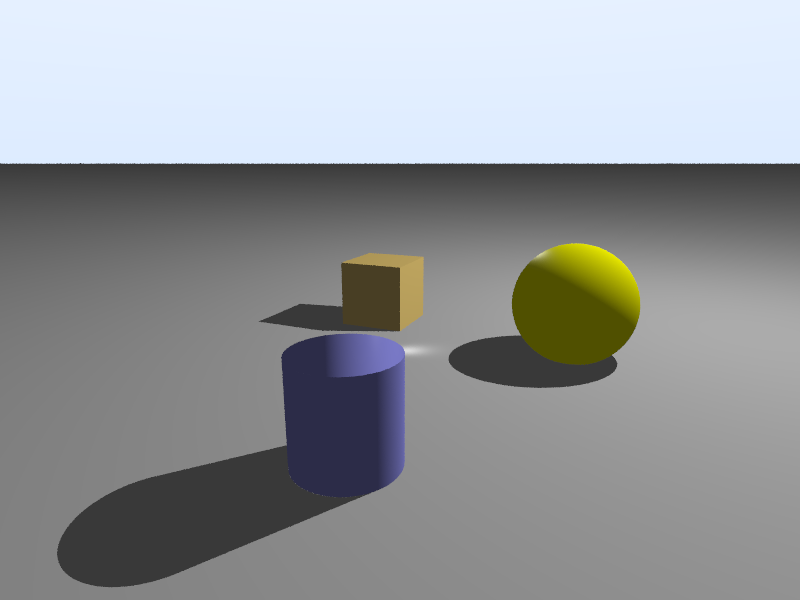
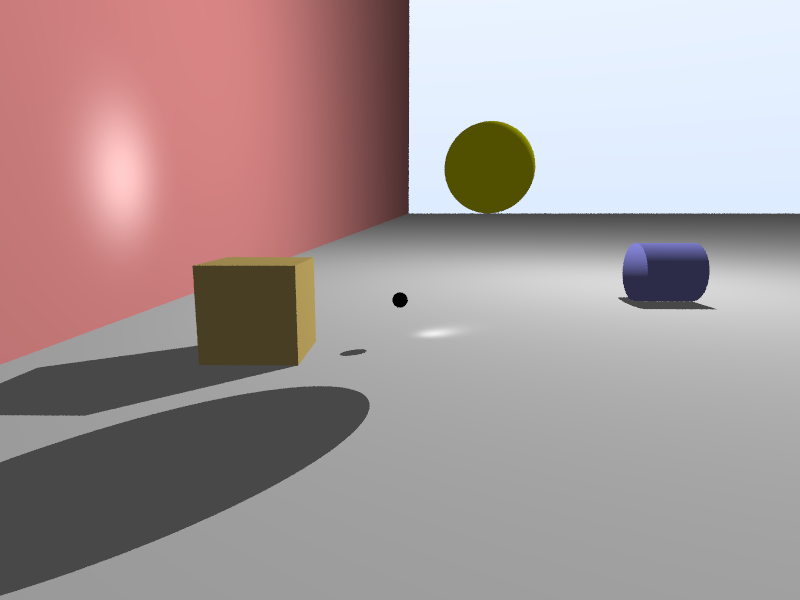
maj

diff --git a/src/main.rs b/src/main.rs
@@ -50,16 +50,22 @@ fn main() -> std::io::Result<()> {
             .unwrap()
             .progress_chars("=>-"),
     );
-    // Création du monde avec des sphères aléatoires
-    // let world = World::random_spheres(); // Génère 20 sphères aléatoires
+
     // Création du World et ajout des objets
     let mut world = World::new();
     // Ajout de plans
     world.add(Box::new(Plane::new(
         Vec3::new(0.0, -0.5, 0.0),
         Vec3::new(0.0, 1.0, 0.0),
-        Vec3::new(0.5, 0.5, 0.5),
+        Vec3::new(0.8, 0.8, 0.8),
     )));
+    let wall = Plane::new(
+        Vec3::new(-4.0, 0.0, 0.0),  // Point sur le plan (mur positionné à x = -4.0)
+        Vec3::new(1.0, 0.0, 0.0),   // Normal du plan (pointant vers la droite)
+        Vec3::new(0.8, 0.3, 0.3),   // Couleur (rouge pâle)
+    );
+    world.add(Box::new(wall));
+    
     // // Ajout de plusieurs sphères
     // world.add(Box::new(Sphere::new(
     //     Vec3::new(0.0, 0.0, -1.5),
@@ -67,28 +73,34 @@ fn main() -> std::io::Result<()> {
     //     Vec3::new(0.8, 0.3, 0.3),
     // )));
     world.add(Box::new(Sphere::new(
-        Vec3::new(0.0, 2.0, 0.0),
-        0.2,
+        Vec3::new(1.0, 1.5, 0.0),
+        0.5,
         Vec3::new(1.0, 1.0, 0.0),
     )));
 
-    // Ajout de cylindres
-    // world.add(Box::new(Cylinder::new(
-    //     Vec3::new(1.0, -0.5, 2.5), // Base
-    //     Vec3::new(0.0, 1.0, 0.0),   // Axe parallèle à Y
-    //     0.5,                        // Rayon
-    //     1.0,                        // Hauteur
-    //     Vec3::new(0.3, 0.3, 0.8),   // Couleur
-    // )));
-    // Ajout d'un cube avec des dimensions plus visibles
-    // let mut cube =  Cube::new(
-    //     Vec3::new(-1.0, -0.5, -2.0),    // Point minimum
-    //     Vec3::new(0.0, 0.5, -1.0),      // Point maximum
-    //     Vec3::new(0.8, 0.6, 0.2),       // Couleur (doré)
-    // );
-    // cube.rotate_y(PI/2.0);
+    world.add(Box::new(Sphere::new(
+        Vec3::new(0.0, 0.0, 0.0),
+        0.09,
+        Vec3::new(0.0, 0.0, 0.0),
+    )));
 
-    // world.add(Box::new(cube));
+    // Ajout de cylindres
+    world.add(Box::new(Cylinder::new(
+        Vec3::new(4.0, 0.0, -3.0), // Base
+        Vec3::new(1.0, 0.0, 0.0),   // Axe parallèle à Y
+        0.5,                        // Rayon
+        1.0,                        // Hauteur
+        Vec3::new(0.3, 0.3, 0.8),   // Couleur
+    )));
+    // Ajout d'un cube avec des dimensions plus visibles
+    let mut cube =  Cube::new(
+        Vec3::new(-1.0, -0.5, -2.0),    // Point minimum
+        Vec3::new(0.0, 0.5, -1.0),      // Point maximum
+        Vec3::new(0.8, 0.6, 0.2),       // Couleur (doré)
+    );
+    cube.rotate_y(PI/2.0);
+
+    world.add(Box::new(cube));
 
     // Création des lumières
     let lights = vec![
@@ -99,39 +111,27 @@ fn main() -> std::io::Result<()> {
         // Light::new(Vec3::new(-5.0, 5.0, -3.0), 0.6),
         // Light::new(Vec3::new(0.0, 5.0, 0.0), 0.4),
     ];
-    // let camera = Camera::new(
-    //     Vec3::new(3.0, 2.0, 6.0),     // Position: légèrement en hauteur et en retrait
-    //     Vec3::new(0.0, 0.0, -1.0),    // Point de visée: centre de la scène
-    //     Vec3::new(0.0, 1.0, 0.0),     // Vecteur "up"
-    //     60.0,                         // Angle de champ plus large
-    //     (width as f64) / (height as f64),
-    // );
+ 
 
     // Définir la caméra avec la position calculée
-    // let camera = Camera::new(
-    //     Vec3::new(0.0, 1.0, 5.0),  // Position de la caméra
-    //     Vec3::new(0.0, 0.0, 0.0),  // Point visé
-    //     Vec3::new(0.0, 1.0, 0.0),  // Vecteur "up"
-    //     60.0,                      // Champ de vision
-    //     (width as f64) / (height as f64),
-    // );
+
     let camera = Camera::new(
-        Vec3::new(5.0, 5.0, -5.0), // Position de la caméra
+        Vec3::new(0.1, 1.0, 6.0), // Position de la caméra
         Vec3::new(0.0, 0.0, 0.0),  // Point visé
         Vec3::new(0.0, 1.0, 0.0),  // Vecteur "up"
         60.0,                      // Champ de vision
         (width as f64) / (height as f64),
     );
 
-    // camera.moves();
-
     // let camera = Camera::new(
-    //     Vec3::new(0.0, 1.2, 10.0),    // Position basse, plus reculée
-    //     Vec3::new(0.0, 1.0, -1.0),    // Légère inclinaison vers le bas
-    //     Vec3::new(0.0, 1.0, 0.0),     // Vecteur "up" standard
-    //     35.0,                          // Angle plus étroit pour un effet plus cinématographique
+    //     Vec3::new(1.0, 2.0, 6.0),     // Position: légèrement en hauteur et en retrait
+    //     Vec3::new(0.0, 0.0, -1.0),    // Point de visée: centre de la scène
+    //     Vec3::new(0.0, 1.0, 0.0),     // Vecteur "up"
+    //     60.0,                         // Angle de champ plus large
     //     (width as f64) / (height as f64),
     // );
+   
+    
     for j in (0..height).rev() {
         for i in 0..width {
             let mut pixel_color = Vec3::new(0.0, 0.0, 0.0);

diff --git a/src/config/world.rs b/src/config/world.rs
@@ -1,11 +1,6 @@
-use rand::Rng;
-
-use crate::plane::Plane;
-use crate::sphere::Sphere;
 
 use super::hittable::*;
 use super::ray::*;
-use super::vec3::Vec3;
 
 pub struct World {
     pub objects: Vec<Box<dyn Hittable>>,
@@ -37,19 +32,4 @@ impl World {
         closest_hit
     }
 
-    // pub fn random_spheres() -> Self {
-    //     let mut world = World::new();
-
-    //     // Sol gris clair
-    //     world.add(Box::new(Plane::new(
-    //         Vec3::new(0.0, -0.5, 0.0),
-    //         Vec3::new(0.0, 1.0, 0.0),
-    //         Vec3::new(0.8, 0.8, 0.8),
-    //     )));
-
-    //     // Ajout des grandes sphères dominantes
-      
-
-    //     world
-    // }
 }
